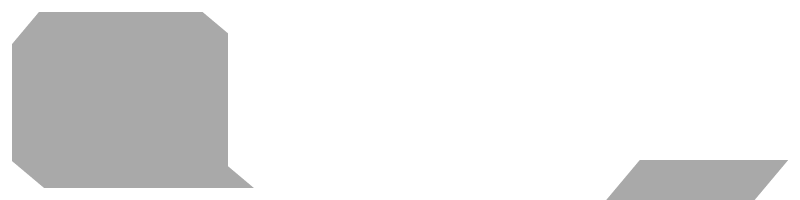
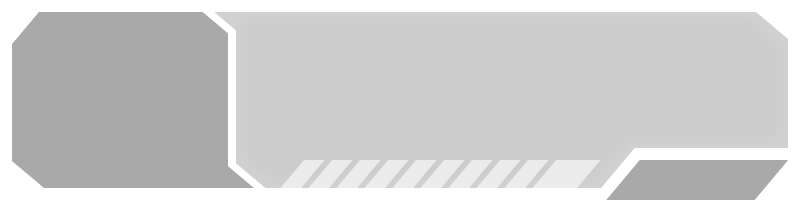
feat: add float light anim

diff --git a/src/sensation/tip_overlay/float_light.rs b/src/sensation/tip_overlay/float_light.rs
@@ -1,0 +1,89 @@
+use super::{geometry::triangle_mesh, motion::DRAIN_DURATION};
+use crate::{
+    controller::ActiveJobState,
+    sensation::sensation_config::{SensationConfig, SensationConfigHandle, layer_color},
+    settings_default_values::{WINDOW_HEIGHT, WINDOW_WIDTH},
+};
+use bevy::prelude::*;
+use std::time::Duration;
+
+const FADE_DURATION: Duration = Duration::from_millis(90);
+
+#[derive(Component, Default, Clone)]
+pub(super) struct FloatLight {
+    pub(super) started_at: Option<Duration>,
+    pub(super) theme: Color,
+}
+
+pub(super) fn float_light_mesh(reveal: f32) -> Mesh {
+    let half_width = WINDOW_WIDTH as f32 / 2.0;
+    let half_height = WINDOW_HEIGHT as f32 / 2.0;
+    let right = -half_width + WINDOW_WIDTH as f32 * reveal;
+    let mut mesh = triangle_mesh(
+        vec![
+            [-half_width, -half_height, 0.0],
+            [right, -half_height, 0.0],
+            [right, half_height, 0.0],
+            [-half_width, half_height, 0.0],
+        ],
+        vec![0, 1, 2, 0, 2, 3],
+    );
+    mesh.insert_attribute(
+        Mesh::ATTRIBUTE_UV_0,
+        vec![[0.0, 1.0], [reveal, 1.0], [reveal, 0.0], [0.0, 0.0]],
+    );
+    mesh
+}
+
+pub(super) fn animate_float_light(
+    time: Res<Time<Real>>,
+    state: Res<ActiveJobState>,
+    config: Res<SensationConfigHandle>,
+    visual_assets: Res<Assets<SensationConfig>>,
+    asset_server: Res<AssetServer>,
+    mut meshes: ResMut<Assets<Mesh>>,
+    mut materials: ResMut<Assets<ColorMaterial>>,
+    light: Single<(
+        &mut FloatLight,
+        &Mesh2d,
+        &MeshMaterial2d<ColorMaterial>,
+        &mut Visibility,
+    )>,
+) {
+    let (mut light, mesh_handle, material_handle, mut visibility) = light.into_inner();
+    let elapsed = light
+        .started_at
+        .map(|start| time.elapsed().saturating_sub(start));
+    let animation = elapsed.filter(|elapsed| *elapsed < DRAIN_DURATION + FADE_DURATION);
+    let Some(elapsed) = animation.filter(|_| state.active_job.is_some()) else {
+        if light.started_at.take().is_some() {
+            if let Some(mut mesh) = meshes.get_mut(&mesh_handle.0) {
+                *mesh = float_light_mesh(0.0);
+            }
+            if let Some(mut material) = materials.get_mut(&material_handle.0) {
+                material.color = Color::NONE;
+            }
+        }
+        *visibility = Visibility::Hidden;
+        return;
+    };
+    let Some(visuals) = config.resolve(&visual_assets, &asset_server) else {
+        return;
+    };
+    let reveal = (elapsed.as_secs_f32() / DRAIN_DURATION.as_secs_f32()).min(1.0);
+    let alpha = 1.0
+        - (elapsed.saturating_sub(DRAIN_DURATION).as_secs_f32() / FADE_DURATION.as_secs_f32())
+            .min(1.0);
+    let color = layer_color(visuals.float_light.as_ref(), light.theme);
+    if let Some(mut material) = materials.get_mut(&material_handle.0) {
+        material.color = color.with_alpha(color.alpha() * alpha);
+    }
+    if let Some(mut mesh) = meshes.get_mut(&mesh_handle.0) {
+        *mesh = float_light_mesh(reveal);
+    }
+    *visibility = if reveal > 0.0 {
+        Visibility::Visible
+    } else {
+        Visibility::Hidden
+    };
+}

diff --git a/src/sensation/tip_overlay/view.rs b/src/sensation/tip_overlay/view.rs
@@ -1,4 +1,5 @@
 use super::{
+    float_light::{FloatLight, float_light_mesh},
     geometry::{BorderGeometry, icon_marker_mesh},
     menu::{
         ActionMenu, HINT_HEIGHT, MenuActions, MenuHint, MenuList, menu_areas, menu_item_scenes,
@@ -77,6 +78,12 @@ pub(super) fn setup_overlay(
     let head_position = border.head_position(0.0);
     let icon_center_x = -(WINDOW_WIDTH as f32) / 2.0 + 30.0;
     let list_height = actions.list_height();
+    let mut float_light_material = color_material(Color::NONE);
+    float_light_material.texture = visuals
+        .float_light
+        .as_ref()
+        .filter(|asset| !asset.path.trim().is_empty())
+        .map(|asset| asset_server.load(asset.path.clone()));
 
     commands.insert_resource(NoticePlacement::default());
     commands.spawn_scene_list(bsn_list! {
@@ -95,6 +102,12 @@ pub(super) fn setup_overlay(
             }
             Transform::from_xyz(0.0, 0.0, 0.1)
             BaseArt
+            --
+            Mesh2d({asset_value(float_light_mesh(0.0))})
+            MeshMaterial2d<ColorMaterial>({asset_value(float_light_material)})
+            Transform::from_xyz(0.0, 0.0, 0.2)
+            Visibility::Hidden
+            FloatLight
             --
             Sprite {
                 color: Color::NONE,

diff --git a/src/sensation/tip_overlay/progress_border.rs b/src/sensation/tip_overlay/progress_border.rs
@@ -1,4 +1,5 @@
 use super::{
+    float_light::FloatLight,
     geometry::BorderGeometry,
     motion::{DRAIN_DURATION, fill_progress},
     style::{set_material_color, tip_color},
@@ -81,6 +82,7 @@ pub(super) fn sync_border_playback(
     jobs: Res<JobConfig>,
     mut fill_value: Single<&mut BorderFillValue>,
     mut drain_value: Single<&mut BorderDrainValue>,
+    mut float_light: Single<&mut FloatLight>,
     outgoing_material: Single<&MeshMaterial2d<ColorMaterial>, With<BorderOutgoing>>,
     mut materials: ResMut<Assets<ColorMaterial>>,
     mut playback: Local<BorderPlayback>,
@@ -100,6 +102,8 @@ pub(super) fn sync_border_playback(
         previous.index != active_job.current_index || previous.started_at != active_job.started_at
     });
     if changed {
+        float_light.started_at = playback.previous_job.map(|_| now);
+        float_light.theme = tip_color(&jobs, active_job.current_index);
         fill_value.progress = if countdown.is_some_and(|(_, total)| total.is_zero()) {
             1.0
         } else {

diff --git a/src/sensation/sensation_config.rs b/src/sensation/sensation_config.rs
@@ -40,6 +40,7 @@ pub enum LayerSizing {
 pub struct SensationConfig {
     pub base_background: Option<LayerAsset>,
     pub icon_background: Option<LayerAsset>,
+    pub float_light: Option<LayerAsset>,
     pub border_path: Option<String>,
     pub border_width: f32,
 }
@@ -54,6 +55,12 @@ impl Default for SensationConfig {
                 sizing: LayerSizing::Stretch,
             }),
             icon_background: None,
+            float_light: Some(LayerAsset {
+                path: "sensation/sensation-layer-float-light@4x.png".into(),
+                tint_with_theme: true,
+                opacity: 1.0,
+                sizing: LayerSizing::Stretch,
+            }),
             border_path: Some("sensation/sensation_tip_overlay_border.json".into()),
             border_width: 1.0,
         }

diff --git a/src/sensation/tip_overlay.rs b/src/sensation/tip_overlay.rs
@@ -1,3 +1,4 @@
+mod float_light;
 mod geometry;
 mod menu;
 mod motion;
@@ -53,7 +54,11 @@ pub(super) fn configure(app: &mut App) {
                     .chain()
                     .after(JobProcessing)
                     .run_if(resource_exists::<NoticePlacement>),
-                (sync_border_playback, render_border)
+                (
+                    sync_border_playback,
+                    render_border,
+                    float_light::animate_float_light,
+                )
                     .chain()
                     .after(JobProcessing)
                     .run_if(resource_exists::<NoticePlacement>),
